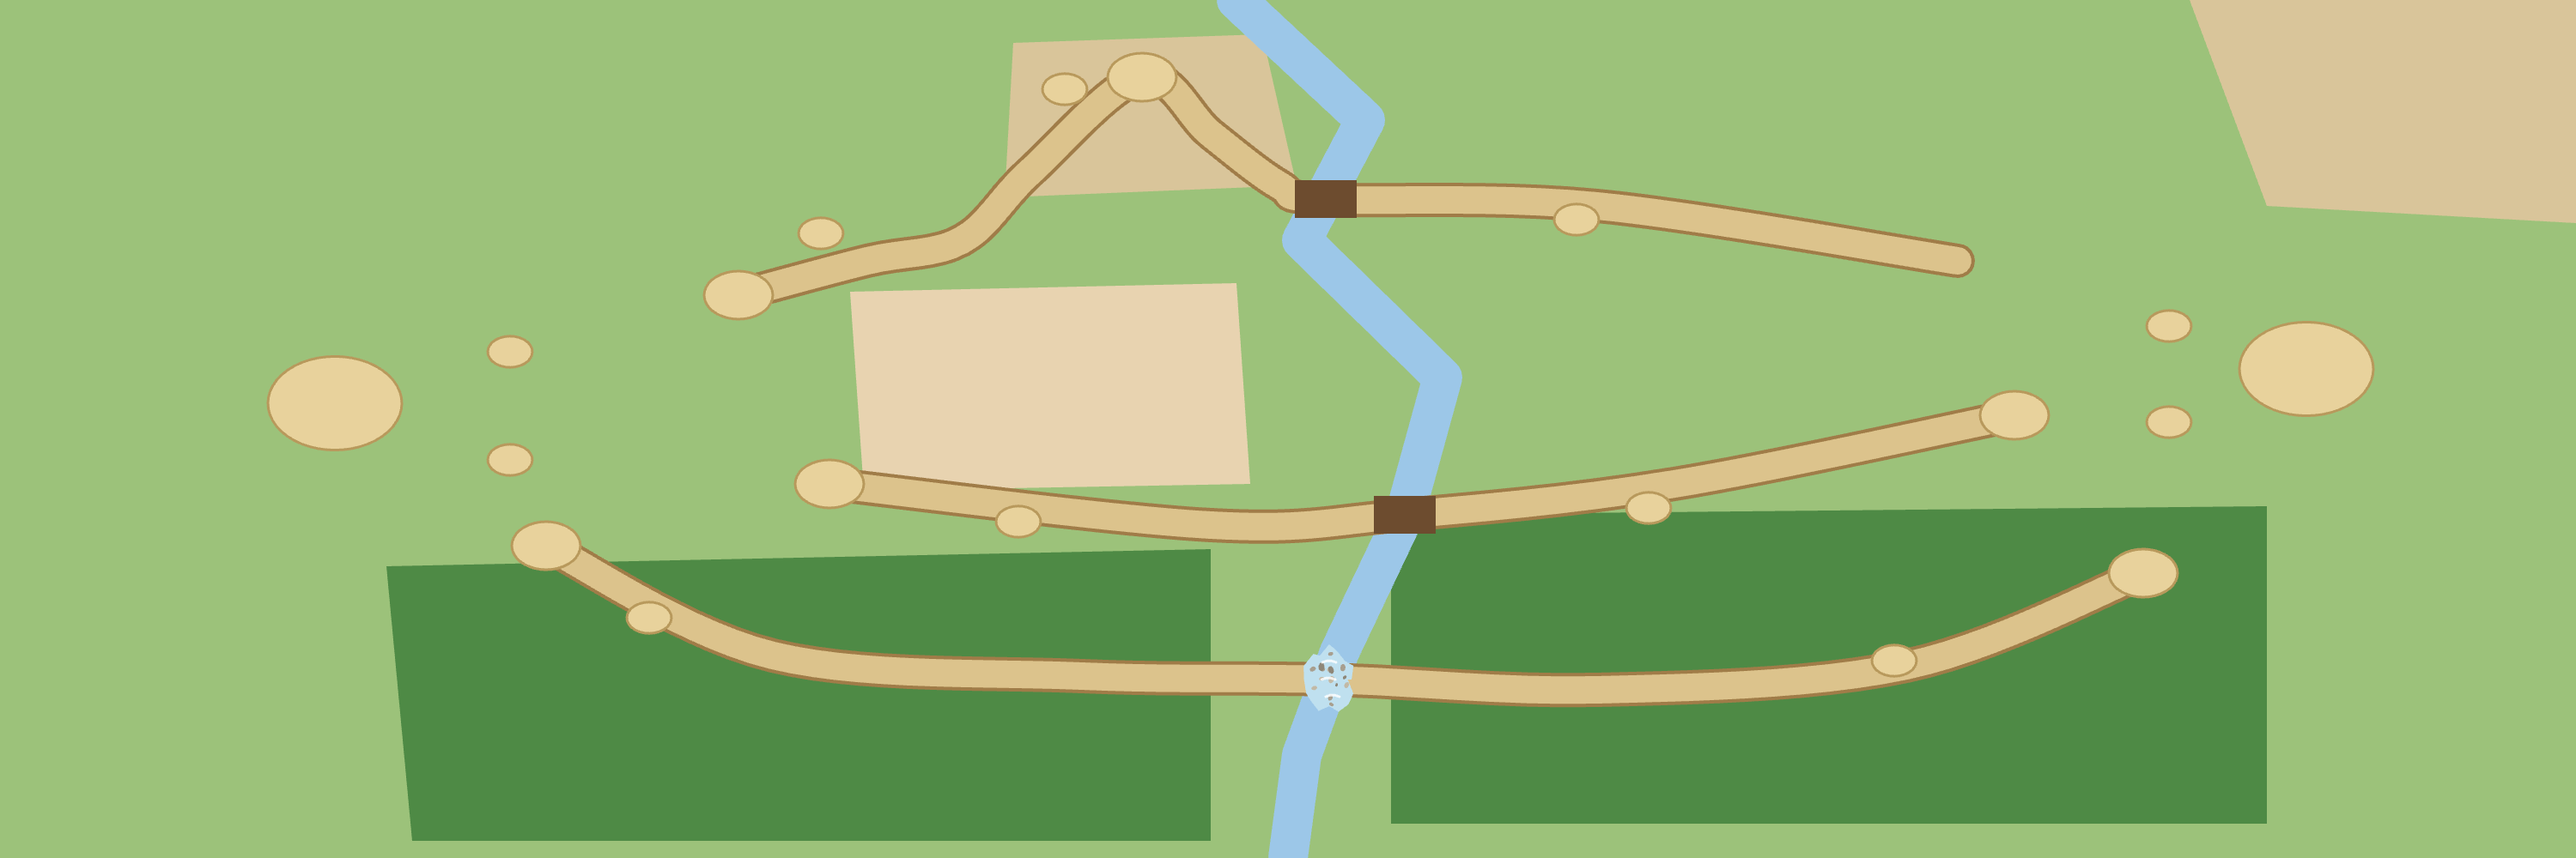
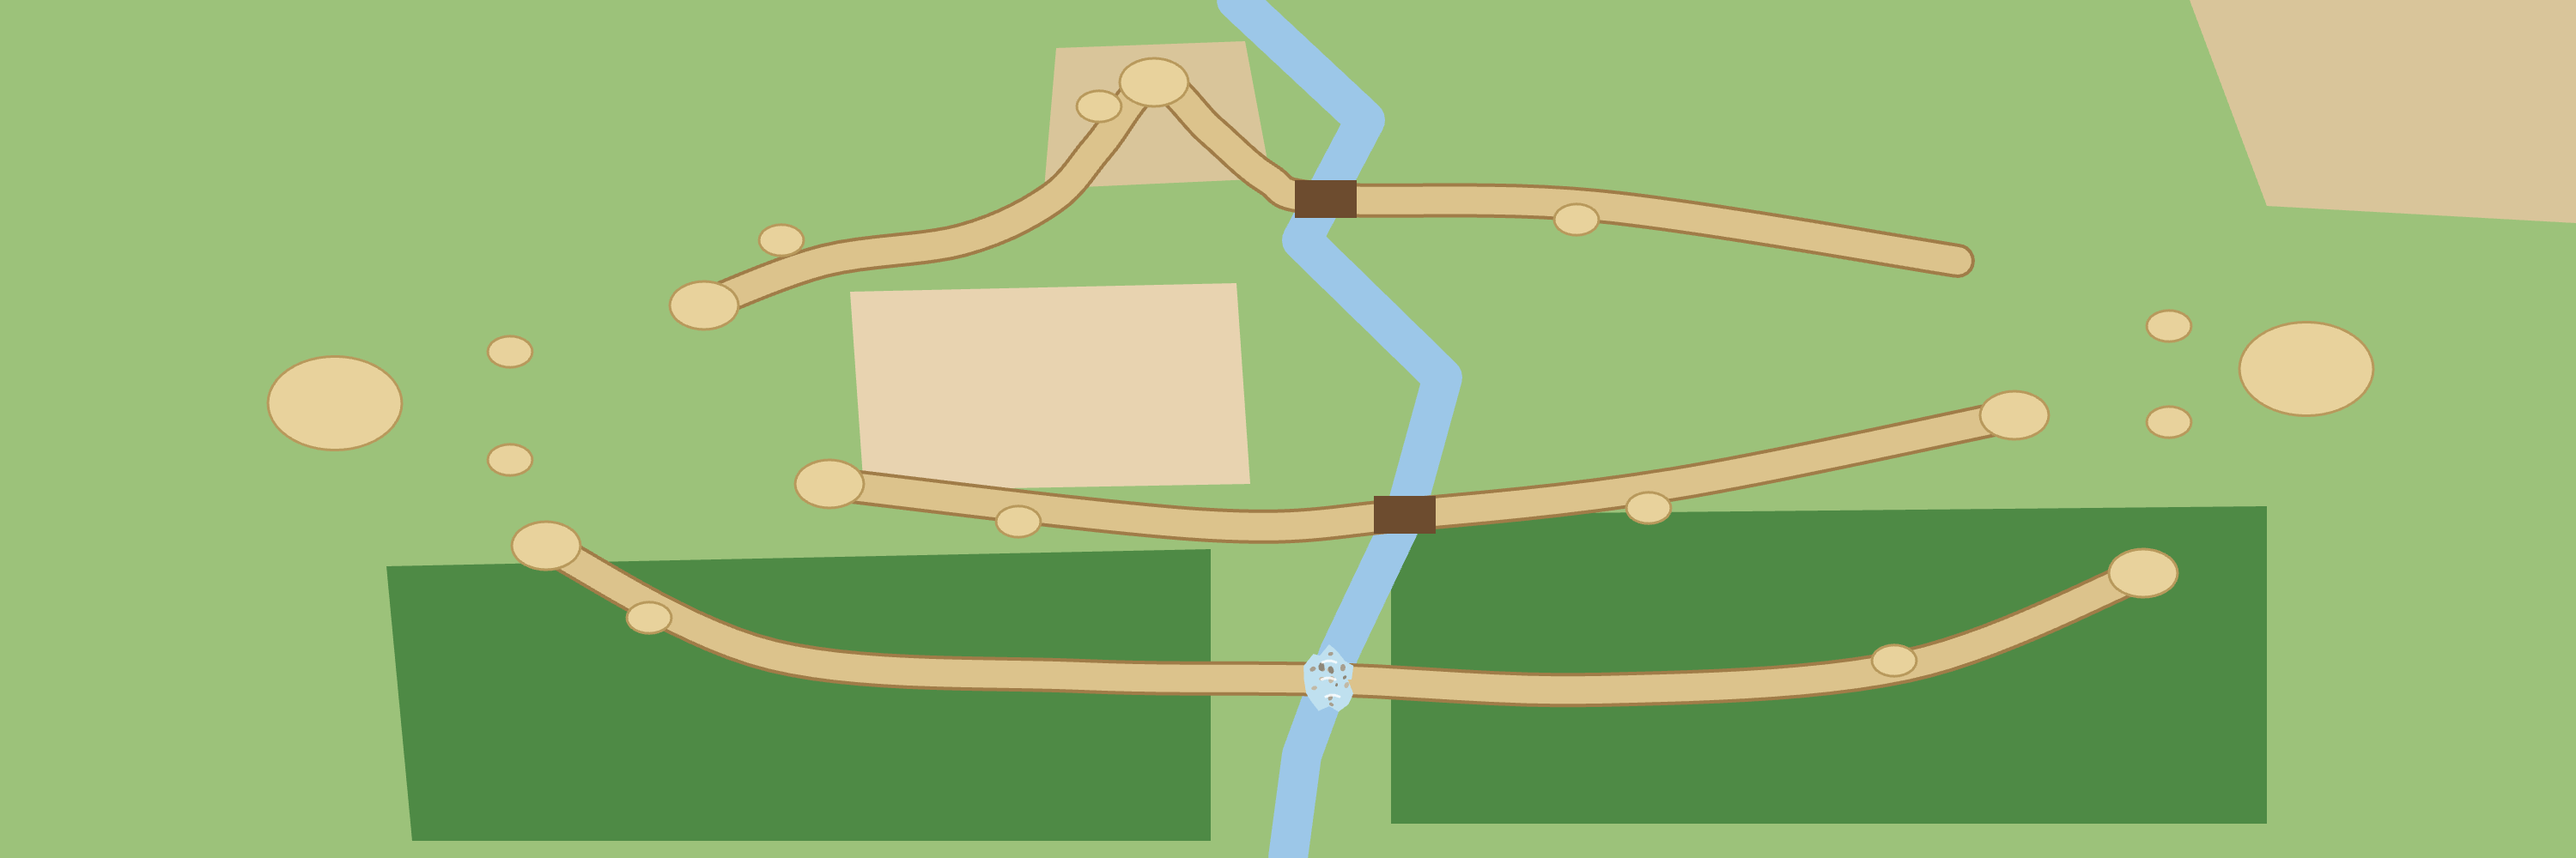
涿郡规划：山包缩小，B1/T1 再离山远一些

Changed region(s): [[0.248, 0.031, 0.527, 0.403]]

diff --git a/docs/涿郡路线规划.html b/docs/涿郡路线规划.html
@@ -7,21 +7,21 @@ h2{margin:6px 0 8px}.k{display:inline-block;width:26px;height:26px;border-radius
 // 坐标用 1500×500（和地形图缩略图一致），画到 3000×1000
 const K=2;
 const ROUTES={
- 北路:{c:'#e53935',road:[2,11],p:[[263,228],[345,205],[430,172],[505,152],[560,140],[600,100],[665,45],[705,78],[745,108],[772,116],[930,120],[1140,152],[1272,202]],note:'出营先走一段平地，再上坡到山顶黄巾兵营 C4（北路唯一的敌营），下坡过北桥，路通到黄巾大营门前；上坡移速 -25%'},
+ 北路:{c:'#e53935',road:[2,12],p:[[263,228],[340,208],[410,178],[480,152],[560,140],[612,116],[640,85],[672,48],[705,76],[738,104],[772,116],[930,120],[1140,152],[1272,202]],note:'出营先走一段平地，再上坡到山顶黄巾兵营 C4（北路唯一的敌营），下坡过北桥，路通到黄巾大营门前；上坡移速 -25%'},
  中路:{c:'#1e88e5',road:[2,6],p:[[263,240],[393,252],[483,282],[705,306],[818,300],[975,282],[1173,242],[1275,218]],note:'最短；沿村庄南边；中桥窄，会挤'},
  南路:{c:'#f9a825',road:[1,7],p:[[258,252],[318,318],[450,382],[630,394],[774,396],[930,402],[1110,388],[1248,334],[1299,236]],note:'穿两片树林，浅滩涉水；最慢；树林里远程易打偏'},
 };
 // 关键点位：[编号, 名称, x, y, 类型, 说明]
 const PTS=[
  ['A','汉军主城',195,235,'base','左边夯土空地中央'],
- ['B1','汉军兵营·北',430,172,'camp','北路起点'],
+ ['B1','汉军兵营·北',410,178,'camp','北路起点'],
  ['B2','汉军兵营·中',483,282,'camp','中路起点'],
  ['B3','汉军兵营·南',318,318,'camp','南路起点'],
- ['C4','黄巾兵营·山包',665,45,'ecamp','小山包顶的空地（高地），北路唯一的敌营；高地上的弓兵射程更远'],
- ['E3','黄巾箭塔·山包',620,52,'etower','山顶西侧，高地射程 +30%，压制北路上坡的汉军'],
+ ['C4','黄巾兵营·山包',672,48,'ecamp','小山包顶的空地（高地），北路唯一的敌营；高地上的弓兵射程更远'],
+ ['E3','黄巾箭塔·山包',640,62,'etower','山顶西侧，高地射程 +30%，压制北路上坡的汉军'],
  ['G1','汉军门牙塔·上',297,205,'tower','大本营正面，两座门牙塔之一'],
  ['G2','汉军门牙塔·下',297,268,'tower','大本营正面，两座门牙塔之一'],
- ['T1','汉军箭塔·北',478,136,'tower','B1 前方，保护北路兵营'],
+ ['T1','汉军箭塔·北',455,140,'tower','B1 前方，保护北路兵营'],
  ['T2','汉军箭塔·中',593,304,'tower','B2 前方，保护中路兵营'],
  ['T3','汉军箭塔·南',378,360,'tower','B3 前方，保护南路兵营'],
  ['Q1','北桥（宽）',772,116,'bridge','北路过河；宽，可 3 人并排'],
@@ -55,7 +55,7 @@ function curve(g,p){g.beginPath();g.moveTo(...p[0]);for(let i=0;i<p.length-1;i++
  // 地形线框（只表示范围）
  zone([[0,140],[420,140],[428,330],[0,335]],'#eadcbcaa','#a98a52',[12,8],'汉军营地');
  zone([[1200,150],[1500,140],[1500,300],[1208,300]],'#eadcbcaa','#a98a52',[12,8],'黄巾营地');
- zone([[590,25],[735,20],[755,108],[585,115]],'#d9c59a','#8a6d3b',null,'小山包（高地）');
+ zone([[615,28],[725,24],[740,104],[608,110]],'#d9c59a','#8a6d3b',null,'小山包（高地）');
  zone([[495,170],[720,165],[728,282],[503,286]],'#e8d3b0','#9a6b3e',null,'村庄');
  zone([[225,330],[705,320],[705,490],[240,490]],'#cfe0bf','#4f7a3e',null,'树林（远程易打偏）');
  zone([[810,300],[1320,295],[1320,480],[810,480]],'#cfe0bf','#4f7a3e',null,'树林');

diff --git a/docs/涿郡出图参考.html b/docs/涿郡出图参考.html
@@ -7,21 +7,21 @@ h2{margin:6px 0 8px}.k{display:inline-block;width:26px;height:26px;border-radius
 // 坐标用 1500×500（和地形图缩略图一致），画到 3000×1000
 const K=2;
 const ROUTES={
- 北路:{c:'#e53935',road:[2,11],p:[[263,228],[345,205],[430,172],[505,152],[560,140],[600,100],[665,45],[705,78],[745,108],[772,116],[930,120],[1140,152],[1272,202]],note:'出营先走一段平地，再上坡到山顶黄巾兵营 C4（北路唯一的敌营），下坡过北桥，路通到黄巾大营门前；上坡移速 -25%'},
+ 北路:{c:'#e53935',road:[2,12],p:[[263,228],[340,208],[410,178],[480,152],[560,140],[612,116],[640,85],[672,48],[705,76],[738,104],[772,116],[930,120],[1140,152],[1272,202]],note:'出营先走一段平地，再上坡到山顶黄巾兵营 C4（北路唯一的敌营），下坡过北桥，路通到黄巾大营门前；上坡移速 -25%'},
  中路:{c:'#1e88e5',road:[2,6],p:[[263,240],[393,252],[483,282],[705,306],[818,300],[975,282],[1173,242],[1275,218]],note:'最短；沿村庄南边；中桥窄，会挤'},
  南路:{c:'#f9a825',road:[1,7],p:[[258,252],[318,318],[450,382],[630,394],[774,396],[930,402],[1110,388],[1248,334],[1299,236]],note:'穿两片树林，浅滩涉水；最慢；树林里远程易打偏'},
 };
 // 关键点位：[编号, 名称, x, y, 类型, 说明]
 const PTS=[
  ['A','汉军主城',195,235,'base','左边夯土空地中央'],
- ['B1','汉军兵营·北',430,172,'camp','北路起点'],
+ ['B1','汉军兵营·北',410,178,'camp','北路起点'],
  ['B2','汉军兵营·中',483,282,'camp','中路起点'],
  ['B3','汉军兵营·南',318,318,'camp','南路起点'],
- ['C4','黄巾兵营·山包',665,45,'ecamp','小山包顶的空地（高地），北路唯一的敌营；高地上的弓兵射程更远'],
- ['E3','黄巾箭塔·山包',620,52,'etower','山顶西侧，高地射程 +30%，压制北路上坡的汉军'],
+ ['C4','黄巾兵营·山包',672,48,'ecamp','小山包顶的空地（高地），北路唯一的敌营；高地上的弓兵射程更远'],
+ ['E3','黄巾箭塔·山包',640,62,'etower','山顶西侧，高地射程 +30%，压制北路上坡的汉军'],
  ['G1','汉军门牙塔·上',297,205,'tower','大本营正面，两座门牙塔之一'],
  ['G2','汉军门牙塔·下',297,268,'tower','大本营正面，两座门牙塔之一'],
- ['T1','汉军箭塔·北',478,136,'tower','B1 前方，保护北路兵营'],
+ ['T1','汉军箭塔·北',455,140,'tower','B1 前方，保护北路兵营'],
  ['T2','汉军箭塔·中',593,304,'tower','B2 前方，保护中路兵营'],
  ['T3','汉军箭塔·南',378,360,'tower','B3 前方，保护南路兵营'],
  ['Q1','北桥（宽）',772,116,'bridge','北路过河；宽，可 3 人并排'],
@@ -55,7 +55,7 @@ function curve(g,p){g.beginPath();g.moveTo(...p[0]);for(let i=0;i<p.length-1;i++
  // 地形线框（只表示范围）
  zone([[0,140],[420,140],[428,330],[0,335]],'#9cc27a','#9cc27a',[12,8],'汉军营地');
  zone([[1200,150],[1500,140],[1500,300],[1208,300]],'#9cc27a','#9cc27a',[12,8],'黄巾营地');
- zone([[590,25],[735,20],[755,108],[585,115]],'#d9c59a','#8a6d3b',null,'小山包（高地）');
+ zone([[615,28],[725,24],[740,104],[608,110]],'#d9c59a','#8a6d3b',null,'小山包（高地）');
  zone([[495,170],[720,165],[728,282],[503,286]],'#e8d3b0','#9a6b3e',null,'村庄');
  zone([[225,330],[705,320],[705,490],[240,490]],'#4e8a45','#4e8a45',null,'树林（远程易打偏）');
  zone([[810,300],[1320,295],[1320,480],[810,480]],'#4e8a45','#4e8a45',null,'树林');
